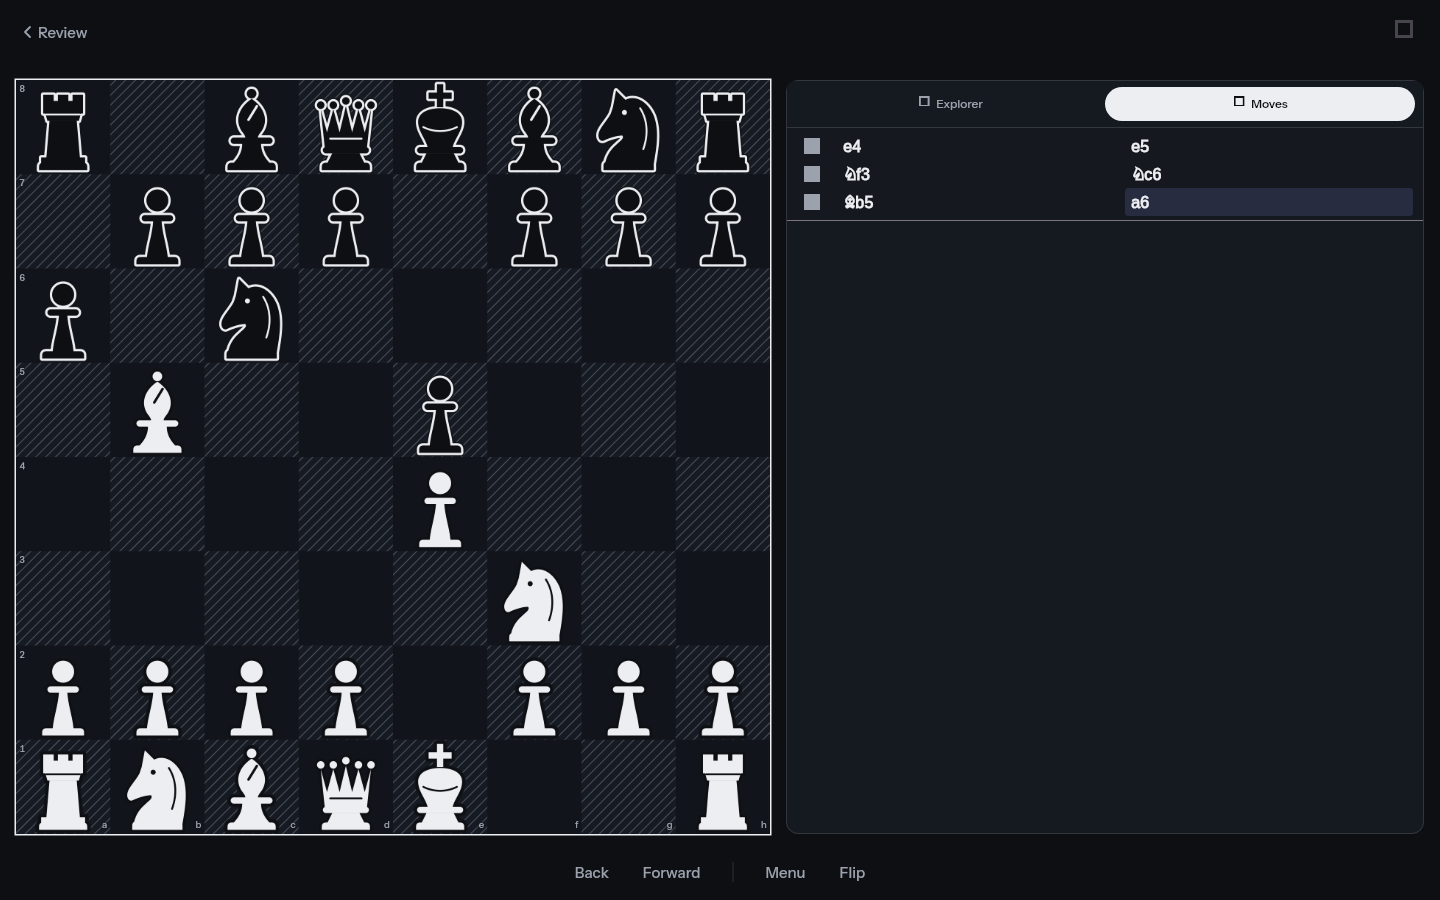
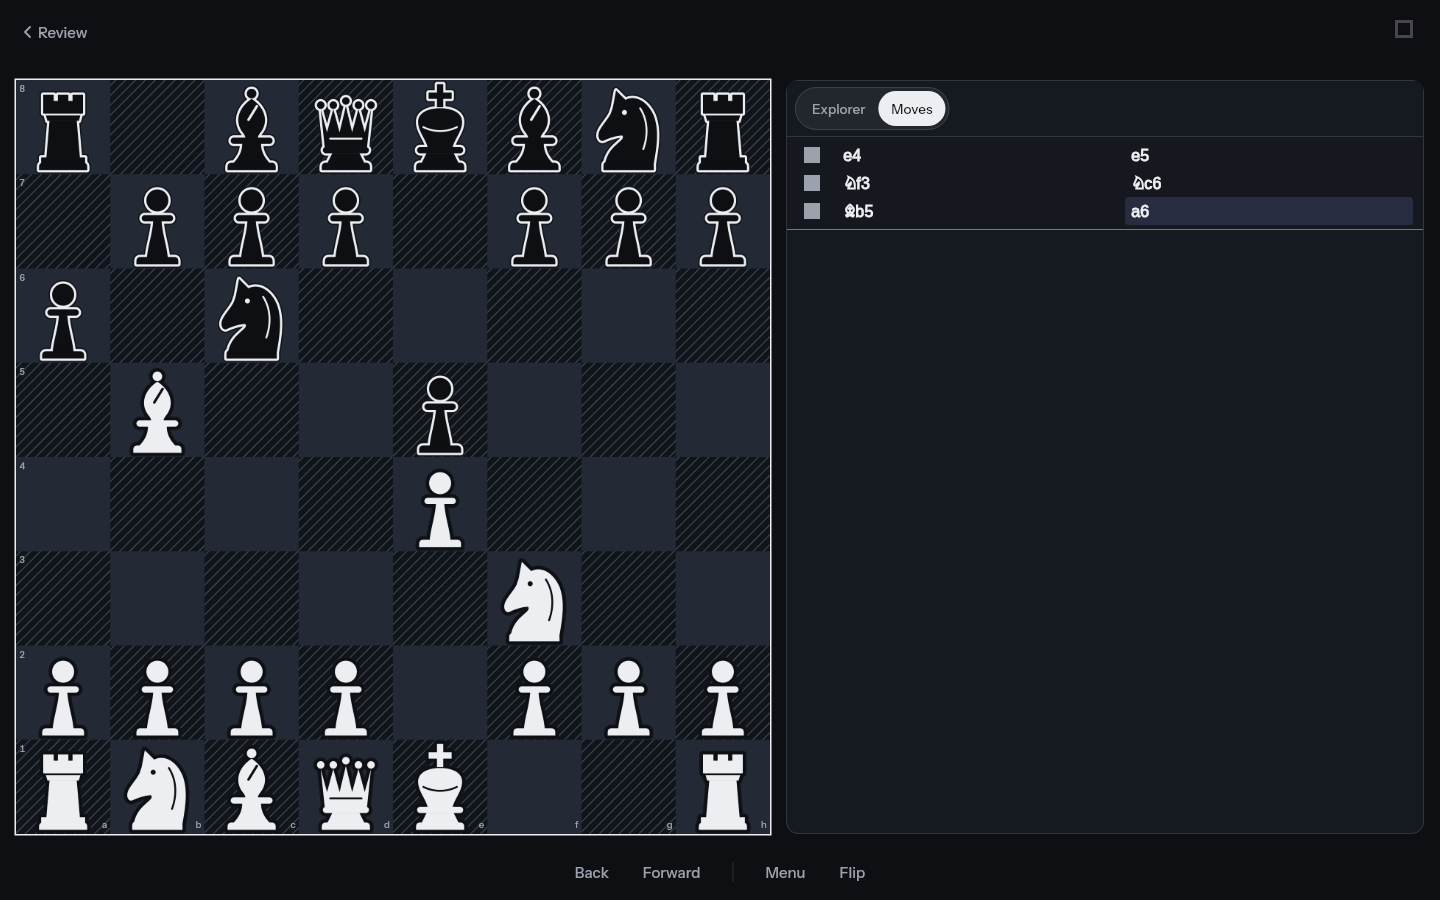
feat(analysis): tab strip becomes a segmented switch (#166)
* feat(analysis): tab strip becomes a segmented switch

The Material TabBar (with its Lichess icon vocabulary) is replaced by an
SrsSegmented driving the same TabController: taps animate to the page,
swipes report back through the controller, null controllers fall back to
the DefaultTabController ancestor per the documented contract. The
swipeable TabBarView is untouched.

Analysis goldens regenerated (the strip is visible in them); the hub was
regenerated by the same capture run but reverted — untouched surface.

Verified by targeted tests only (full suite is CI's job).

* feat(analysis): tab strip becomes a segmented switch

The Material TabBar (with its Lichess icon vocabulary) is replaced by an
SrsSegmented driving the same TabController: taps animate to the page,
swipes report back through the controller, null controllers fall back to
the DefaultTabController ancestor per the documented contract. The
swipeable TabBarView and everything below it are untouched. Dependent
tests now tap tabs by their short labels instead of icons and long
semantics strings.

Analysis goldens regenerated (strip visible); hub goldens reverted.

Verified by targeted tests only (full suite is CI's job).

* Ack-G08: tab finders move from icons/long semantics strings to short-label text in the analysis tab-strip migration; same tabs asserted present/absent/tapped, fails on base

Changed region(s): [[0.0, 0.0622, 0.6875, 0.9333], [0.75, 0.0933, 1.0, 0.2489], [0.4062, 0.0622, 0.4688, 0.1867]]

diff --git a/lib/src/view/analysis/analysis_layout.dart b/lib/src/view/analysis/analysis_layout.dart
@@ -1,6 +1,6 @@
 import 'package:chess_srs/l10n/l10n.dart';
 import 'package:chess_srs/src/constants.dart';
-import 'package:chess_srs/src/design/tokens.dart';
+import 'package:chess_srs/src/design/design.dart';
 import 'package:chess_srs/src/model/settings/board_preferences.dart';
 import 'package:chess_srs/src/styles/styles.dart';
 import 'package:chess_srs/src/utils/l10n_context.dart';
@@ -495,56 +495,26 @@ class _AnalysisTabView extends StatelessWidget {
                 bottom: BorderSide(color: srs?.hairline ?? Theme.of(context).dividerColor),
               ),
             ),
-            child: TabBar(
-              controller: controller,
-              indicator: BoxDecoration(
-                color: srs?.ink ?? ColorScheme.of(context).primary,
-                borderRadius: BorderRadius.circular(999),
-              ),
-              indicatorSize: TabBarIndicatorSize.tab,
-              dividerColor: Colors.transparent,
-              labelColor: srs?.ground ?? ColorScheme.of(context).onPrimary,
-              unselectedLabelColor: srs?.ink2 ?? ColorScheme.of(context).onSurfaceVariant,
-              labelStyle: const TextStyle(
-                fontFamily: SrsText.ui,
-                fontSize: 12,
-                fontWeight: FontWeight.w600,
-                letterSpacing: -0.1,
-              ),
-              unselectedLabelStyle: const TextStyle(
-                fontFamily: SrsText.ui,
-                fontSize: 12,
-                fontWeight: FontWeight.w500,
-                letterSpacing: -0.1,
-              ),
-              tabs: tabs!
-                  .map(
-                    (tab) => Tooltip(
-                      message: tab.l10n(context.l10n),
-                      child: Semantics(
-                        label: tab.l10n(context.l10n),
-                        child: Tab(
-                          height: 32,
-                          child: Row(
-                            mainAxisAlignment: MainAxisAlignment.center,
-                            mainAxisSize: MainAxisSize.min,
-                            children: [
-                              Icon(tab.icon, size: 14),
-                              const SizedBox(width: 5),
-                              Flexible(
-                                child: Text(
-                                  tab.shortLabel(context.l10n),
-                                  maxLines: 1,
-                                  overflow: TextOverflow.ellipsis,
-                                ),
-                              ),
-                            ],
-                          ),
-                        ),
-                      ),
+            // A segmented switch instead of the Material tab bar: same tabs, same swipeable
+            // pages below, no icon vocabulary. The controller animates on tap and reports
+            // swipes back through the same object, so both directions stay in sync.
+            child: Align(
+              alignment: Alignment.centerLeft,
+              child: Builder(
+                builder: (context) {
+                  final ctrl = controller ?? DefaultTabController.of(context);
+                  return AnimatedBuilder(
+                    animation: ctrl,
+                    builder: (context, _) => SrsSegmented<int>(
+                      options: {
+                        for (var i = 0; i < tabs!.length; i++) i: tabs![i].shortLabel(context.l10n),
+                      },
+                      value: ctrl.index,
+                      onChanged: ctrl.animateTo,
                     ),
-                  )
-                  .toList(),
+                  );
+                },
+              ),
             ),
           ),
         Expanded(

diff --git a/test/view/analysis/analysis_layout_test.dart b/test/view/analysis/analysis_layout_test.dart
@@ -2,6 +2,7 @@ import 'dart:convert';
 import 'dart:math';
 
 import 'package:chess_srs/src/constants.dart';
+import 'package:chess_srs/src/design/design.dart';
 import 'package:chess_srs/src/model/settings/board_preferences.dart';
 import 'package:chess_srs/src/model/settings/preferences_storage.dart';
 import 'package:chess_srs/src/view/analysis/analysis_layout.dart';
@@ -178,4 +179,49 @@ void main() {
       );
     }
   }, variant: kPlatformVariant);
+
+  testWidgets('tab strip is a segmented switch and taps change the page', (
+    WidgetTester tester,
+  ) async {
+    // The Material tab bar (with its icon vocabulary) is gone: one segmented control
+    // over the same swipeable pages. Fails on base, which built a TabBar.
+    //
+    // The App flavour of the harness, not the bare MaterialApp: the strip reads
+    // localized tab labels, and only the App wrapper provides the delegates.
+    final app = await makeTestProviderScopeApp(
+      tester,
+      home: DefaultTabController(
+        length: 2,
+        child: AnalysisLayout(
+          pov: Side.white,
+          sideToMove: Side.white,
+          tabs: const [AnalysisTab.moves, AnalysisTab.explorer],
+          boardBuilder: (context, boardSize, boardRadius) {
+            return StaticChessboard(
+              size: boardSize,
+              fen: 'rnbqkbnr/pppppppp/8/8/8/8/PPPPPPPP/RNBQKBNR',
+              orientation: Side.white,
+            );
+          },
+          bottomBar: const SizedBox(height: kBottomBarHeight),
+          children: const [
+            Center(child: Text('Moves page')),
+            Center(child: Text('Explorer page')),
+          ],
+        ),
+      ),
+    );
+    await tester.pumpWidget(app);
+    await tester.pumpAndSettle();
+
+    expect(find.byType(TabBar), findsNothing);
+    expect(find.byType(TabBarView), findsOneWidget);
+    expect(find.text('Explorer'), findsOneWidget);
+    expect(find.byType(SrsSegmented<int>), findsOneWidget);
+    expect(find.text('Moves page'), findsOneWidget);
+
+    await tester.tap(find.text('Explorer'));
+    await tester.pumpAndSettle();
+    expect(find.text('Explorer page'), findsOneWidget);
+  });
 }

diff --git a/test/view/analysis/analysis_screen_test.dart b/test/view/analysis/analysis_screen_test.dart
@@ -14,7 +14,6 @@ import 'package:chess_srs/src/model/settings/preferences_storage.dart';
 import 'package:chess_srs/src/network/http.dart';
 import 'package:chess_srs/src/network/socket.dart';
 import 'package:chess_srs/src/view/analysis/analysis_hub_screen.dart';
-import 'package:chess_srs/src/view/analysis/analysis_layout.dart';
 import 'package:chess_srs/src/view/analysis/analysis_screen.dart';
 import 'package:chess_srs/src/view/engine/engine_button.dart';
 import 'package:chess_srs/src/view/engine/engine_gauge.dart';
@@ -180,8 +179,8 @@ void main() {
 
       await tester.pumpWidget(app);
 
-      expect(find.byIcon(AnalysisTab.moveTimes.icon), findsOneWidget);
-      await tester.tap(find.byIcon(AnalysisTab.moveTimes.icon));
+      expect(find.text('Times'), findsOneWidget);
+      await tester.tap(find.text('Times'));
       await tester.pumpAndSettle();
 
       final chart = tester.widget<MoveTimesChart>(find.byType(MoveTimesChart));
@@ -216,7 +215,7 @@ void main() {
 
       await tester.pumpWidget(app);
 
-      expect(find.byIcon(AnalysisTab.moveTimes.icon), findsNothing);
+      expect(find.text('Times'), findsNothing);
     });
 
     testWidgets('Variations bar displays variations and can be tapped', (tester) async {

diff --git a/test/view/study/study_screen_test.dart b/test/view/study/study_screen_test.dart
@@ -161,7 +161,7 @@ void main() {
       expect(find.text('pgn 2'), findsNothing);
 
       // First chapter does not allow opening explorer
-      expect(find.bySemanticsLabel(RegExp('Opening explorer & tablebase')), findsNothing);
+      expect(find.text('Explorer'), findsNothing);
 
       // Open chapter selection dialog
       await tester.tap(findByTooltip('2 Chapters'));
@@ -188,7 +188,7 @@ void main() {
       await tester.pumpAndSettle();
 
       // Second chapter allows opening explorer, so tab should be displayed now.
-      expect(find.bySemanticsLabel(RegExp('Opening explorer & tablebase')), findsOneWidget);
+      expect(find.text('Explorer'), findsOneWidget);
 
       expect(find.text('1. Chapter 1'), findsNothing);
       expect(find.text('2. Chapter 2'), findsOneWidget);
@@ -923,7 +923,7 @@ void main() {
       await tester.pumpAndSettle();
 
       // Server analysis tab should not be displayed
-      expect(find.bySemanticsLabel(RegExp('Computer analysis')), findsNothing);
+      expect(find.text('Summary'), findsNothing);
     });
   });
 }

diff --git a/test/widgets/move_times_chart_test.dart b/test/widgets/move_times_chart_test.dart
@@ -61,7 +61,7 @@ Future<Widget> makeTestApp(WidgetTester tester, {List<int> clocks = _clocks}) {
 }
 
 Future<void> openMoveTimesTab(WidgetTester tester) async {
-  await tester.tap(find.bySemanticsLabel(RegExp('Move times')));
+  await tester.tap(find.text('Times'));
   await tester.pumpAndSettle();
 }
 
@@ -90,7 +90,7 @@ void main() {
       await tester.pumpWidget(await makeTestApp(tester, clocks: []));
       await tester.pumpAndSettle();
 
-      expect(find.bySemanticsLabel(RegExp('Move times')), findsNothing);
+      expect(find.text('Times'), findsNothing);
       expect(find.byType(MoveTimesChart), findsNothing);
     });
 
